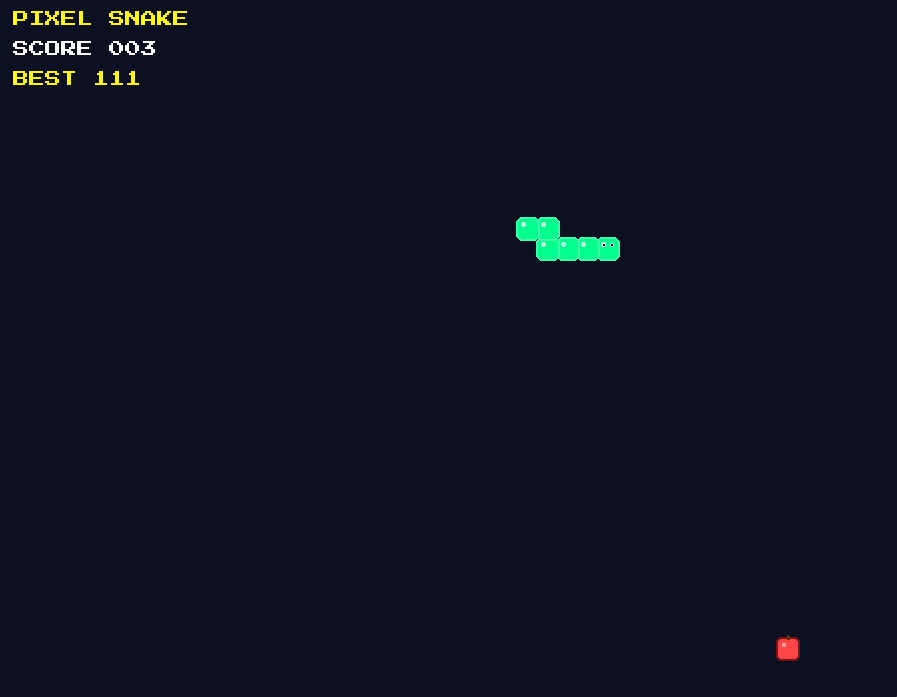
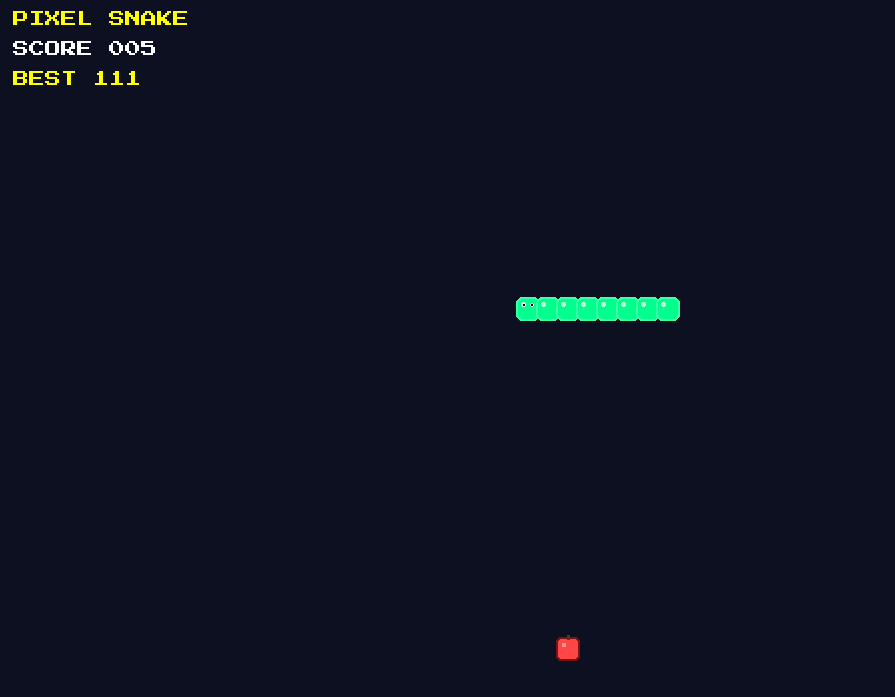
update pause and menu

diff --git a/game.py b/game.py
@@ -21,6 +21,8 @@ class Game:
         self.running = True
         self.game_over = False
         self.paused = False
+        self.pause_selected = 0
+        self.pause_options = ["RESUME", "QUIT TO MENU"]
 
         self.snake = Snake()
         self.apple = Apple()
@@ -111,8 +113,34 @@ class Game:
 
                 else:
 
-                    if event.key == pygame.K_SPACE:
-                        self.paused = not self.paused
+                    if self.paused:
+
+                        if event.key == pygame.K_UP:
+                            self.pause_selected -= 1
+
+                            if self.pause_selected < 0:
+                                self.pause_selected = len(self.pause_options) - 1
+
+                        elif event.key == pygame.K_DOWN:
+                            self.pause_selected += 1
+
+                            if self.pause_selected >= len(self.pause_options):
+                                self.pause_selected = 0
+
+                        elif event.key == pygame.K_RETURN:
+
+                            if self.pause_selected == 0:
+                                self.paused = False
+
+                            else:
+                                self.running = False
+
+                        elif event.key == pygame.K_SPACE:
+                            self.paused = False
+
+                    elif event.key == pygame.K_SPACE:
+                        self.paused = True
+                        self.pause_selected = 0
 
                     elif event.key == pygame.K_UP and self.snake.direction != "DOWN":
                         self.snake.direction = "UP"
@@ -458,7 +486,7 @@ class Game:
         if self.paused:
 
             overlay = pygame.Surface((WIDTH, HEIGHT))
-            overlay.set_alpha(180)
+            overlay.set_alpha(190)
             overlay.fill((0, 0, 0))
             self.screen.blit(overlay, (0, 0))
 
@@ -468,25 +496,46 @@ class Game:
                 (255, 255, 0)
             )
 
-            resume = self.font.render(
-                "PRESS SPACE TO RESUME",
-                True,
-                WHITE
-            )
-
             self.screen.blit(
                 paused,
                 (
                     WIDTH // 2 - paused.get_width() // 2,
-                    HEIGHT // 2 - 40
+                    HEIGHT // 2 - 125
                 )
             )
 
+            for i, option in enumerate(self.pause_options):
+
+                color = WHITE
+
+                if i == self.pause_selected:
+                    color = (255, 255, 0)
+
+                text = self.font.render(
+                    option,
+                    True,
+                    color
+                )
+
+                self.screen.blit(
+                    text,
+                    (
+                        WIDTH // 2 - text.get_width() // 2,
+                        HEIGHT // 2 - 35 + i * 55
+                    )
+                )
+
+            controls = self.font.render(
+                "ARROWS = MOVE   ENTER = SELECT",
+                True,
+                (150, 150, 150)
+            )
+
             self.screen.blit(
-                resume,
+                controls,
                 (
-                    WIDTH // 2 - resume.get_width() // 2,
-                    HEIGHT // 2 + 30
+                    WIDTH // 2 - controls.get_width() // 2,
+                    HEIGHT - 55
                 )
             )
 

diff --git a/menu.py b/menu.py
@@ -206,15 +206,20 @@ class Menu:
                         import settings
 
                         if self.difficulty == 0:
+                            settings.DIFFICULTY = "EASY"
                             settings.MOVE_SPEED = 12
 
                         elif self.difficulty == 1:
+                            settings.DIFFICULTY = "MEDIUM"
                             settings.MOVE_SPEED = 8
 
                         else:
+                            settings.DIFFICULTY = "HARD"
                             settings.MOVE_SPEED = 5
 
                         self.select_sound.play()
+
+                        viewing = False
 
                     elif event.key == pygame.K_ESCAPE:
 
@@ -311,7 +316,7 @@ class Menu:
             )
 
             info2 = self.font.render(
-                "ENTER = EQUIP   ESC = BACK",
+                "ENTER = SELECT   ESC = BACK",
                 True,
                 (170, 170, 170)
             )
@@ -375,6 +380,8 @@ class Menu:
                         ]
 
                         self.select_sound.play()
+
+                        viewing = False
 
                     elif event.key == pygame.K_ESCAPE:
 
@@ -539,7 +546,7 @@ class Menu:
             )
 
             info2 = self.font.render(
-                "ENTER = EQUIP   ESC = BACK",
+                "ENTER = SELECT   ESC = BACK",
                 True,
                 (170, 170, 170)
             )
@@ -717,10 +724,16 @@ class Menu:
                 color = (255, 255, 0)
 
             if option == "DIFFICULTY":
-                option = "DIFFICULTY"
+
+                import settings
+
+                option = f"DIFFICULTY : {settings.DIFFICULTY}"
 
             if option == "SKIN":
-                option = "SKIN"
+
+                import settings
+
+                option = f"SKIN : {settings.CURRENT_SKIN}"
 
             text = self.font.render(
                 option,
